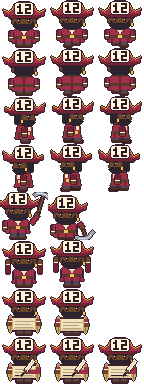
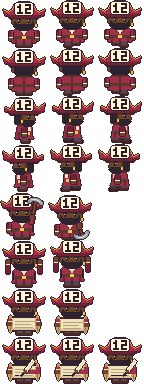
improve(assets): the pickaxe swing stays inside the square's border, so the turn outline shows round a digger (#237)

Changed region(s): [[0.0, 0.5, 0.6667, 0.625]]

diff --git a/assets/pirates.py b/assets/pirates.py
@@ -432,18 +432,21 @@ def _quill(frame):
     return layer
 
 
-# The dig is a pickaxe swing. The pirate steps left so the swing has the right of
-# its square. Each stance: the hand on the haft, the haft's angle (0 points right,
-# 90 up), the body's lift (up is negative) and the haft's length.
+# The dig is a pickaxe swing. The pirate steps a little left so the swing has the
+# right of its square, and the whole swing stays inside the square's 3-pixel border,
+# where the viewer outlines the acting pirate's square. Each stance: the hand on the
+# haft, the haft's angle (0 points right, 90 up), the body's lift (up is negative)
+# and the haft's length.
 DIG_STANCES = (
-    ((37, 25), 72, -2, 20),  # raised high: dig frame 0
-    ((38, 27), 38, -1, 14),  # swinging down
-    ((34, 33), -72, 2, 10),  # the point in the sand: dig frame 1
-    ((34, 33), -72, 2, 10),  # held there while the chips fly
-    ((37, 27), 55, 0, 16),  # lifting out
-    ((37, 25), 72, -2, 20),  # raised again, as dig frame 0
+    ((32, 25), 78, 0, 16),  # raised high: dig frame 0
+    ((34, 28), 35, 0, 11),  # swinging down
+    ((31, 33), -70, 2, 9),  # the point in the sand: dig frame 1
+    ((31, 33), -70, 2, 9),  # held there while the chips fly
+    ((33, 27), 58, 0, 13),  # lifting out
+    ((32, 25), 78, 0, 16),  # raised again, as dig frame 0
 )
-_DIG_STEP_LEFT = 6
+_DIG_STEP_LEFT = 2  # keeps the hat off the square's outline
+_HEAD_REACH = 7  # the pickaxe head runs this far either side of the haft
 _IRON, _IRON_LIT = "#9aa4ae", "#d8e0e8"
 
 
@@ -456,8 +459,8 @@ def _pick_head(stance):
     across = (-math.sin(a), -math.cos(a))
     along = (math.cos(a), -math.sin(a))
     head = []
-    for t in range(-9, 10):
-        bend = 2 - (t / 9) ** 2 * 4  # the points curve back toward the hand
+    for t in range(-_HEAD_REACH, _HEAD_REACH + 1):
+        bend = 2 - (t / _HEAD_REACH) ** 2 * 4  # the points curve back toward the hand
         head.append(
             (
                 end[0] + across[0] * t + along[0] * bend,
